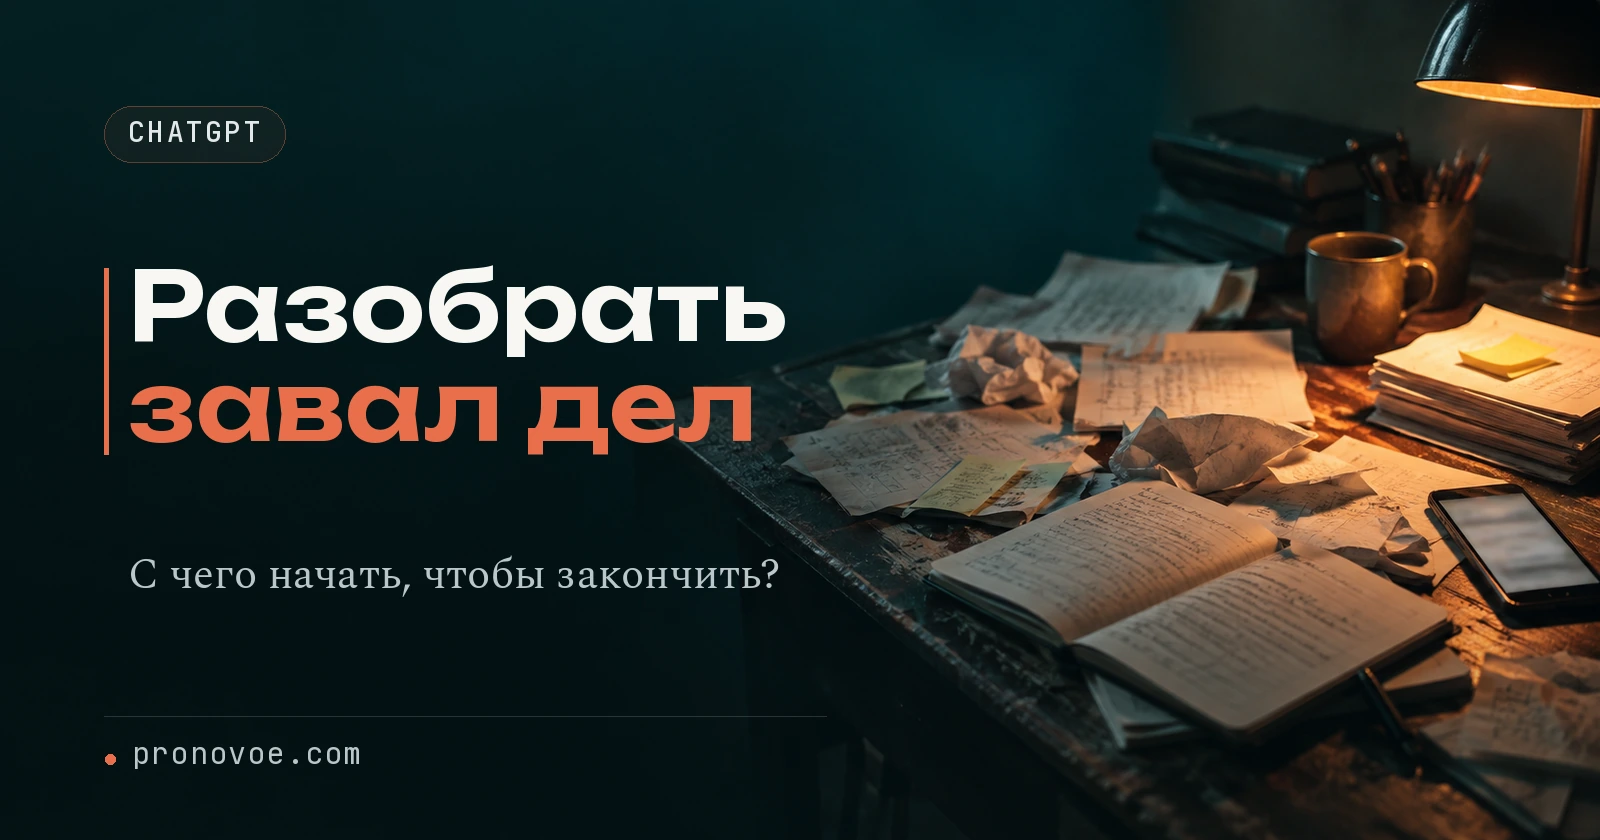
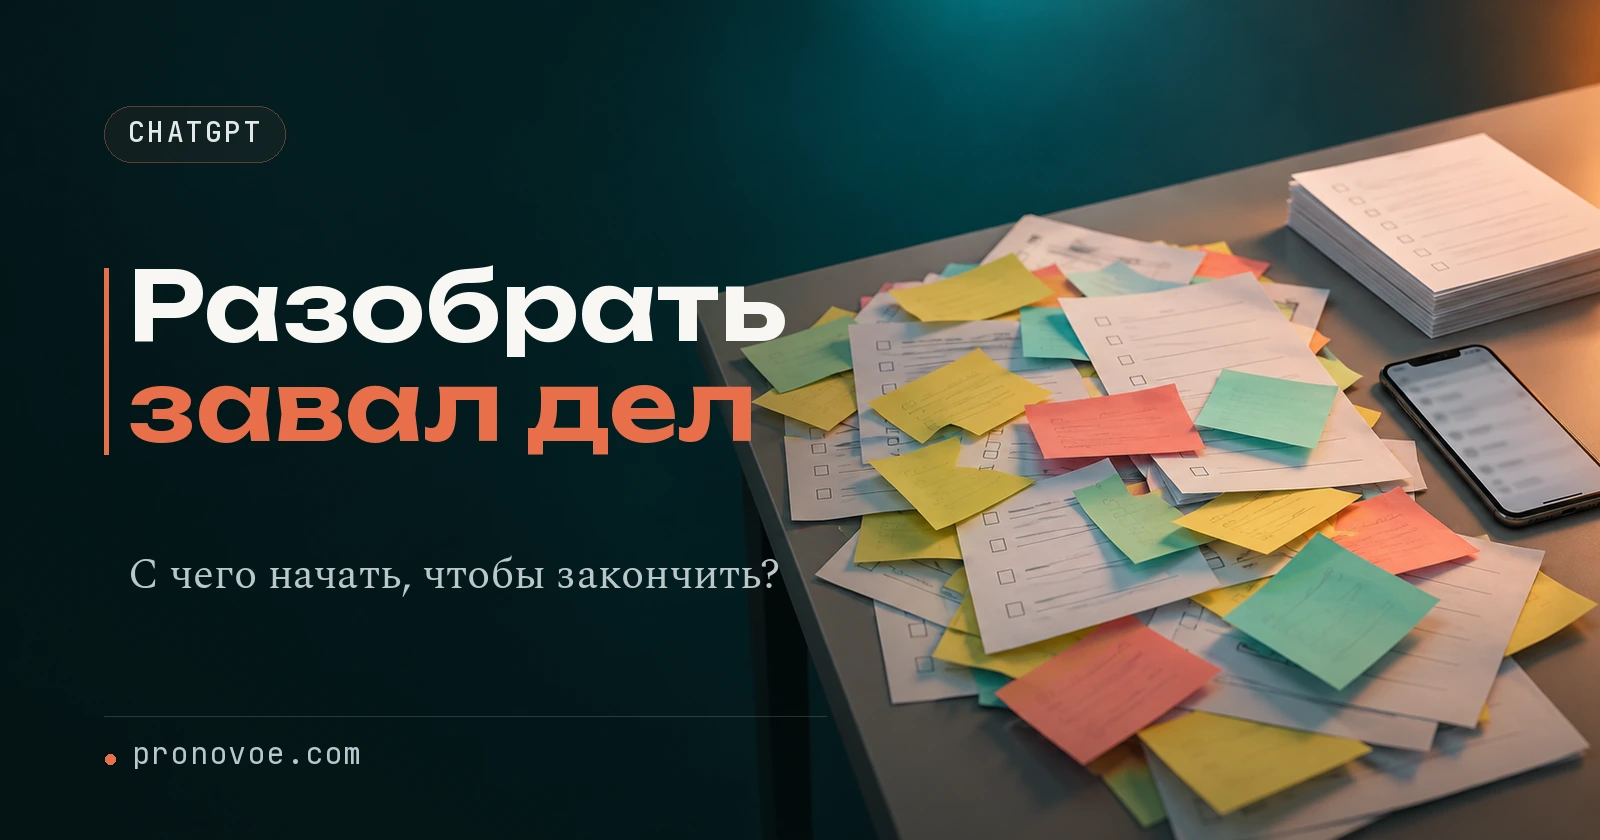
СВАЛКА: современная предметная обложка v3

diff --git a/claude-ai/razobrat-zaval-del-v-chatgpt/index.html b/claude-ai/razobrat-zaval-del-v-chatgpt/index.html
@@ -13,7 +13,7 @@
 <meta property="og:image:height" content="840">
 <meta name="twitter:card" content="summary_large_image">
 <meta name="twitter:image" content="https://pronovoe.com/claude-ai/razobrat-zaval-del-v-chatgpt/assets/oblozhka.webp">
-<meta property="og:image:alt" content="Разрозненные списки дел, смятые листки, блокнот и телефон на столе с тёплой подсветкой">
+<meta property="og:image:alt" content="На современном матовом столе гора разноцветных стикеров и распечаток со списками дел, рядом смартфон и ровная стопка бумаг">
 <!-- critical:fonts:start -->
 <!-- palette:start -->
 <style id="guide-palette">
@@ -694,7 +694,7 @@ html { scroll-padding-bottom: calc(var(--cookie-height, 0px) + 16px) }
 <a href="#glavnoe">Шаг 5. Спроси, за какое дело взяться первым</a>
 <a href="#pomoshch">Что написать, если непонятно, как продолжить?</a>
 <a href="#istochniki">Где прочитать о возможностях этих нейросетей</a>
-<a href="#dalshe">Что ещё можно поручить нейросети</a></nav><main><article><header id="nachalo"><p class="eyebrow">Инструкция · ChatGPT.</p><figure class="cover cover-v2"><img src="assets/oblozhka.webp" width="1600" height="840" alt="На тёмном столе разрозненные списки дел и смятые листки, рядом блокнот, телефон и ровная стопка бумаг" loading="eager" decoding="async" fetchpriority="high"><figcaption>Расскажем обо всех делах в чате и разберёмся, за что взяться первым</figcaption></figure><h1 class="article-title-v2">Разобрать завал дел в ChatGPT: 4 запроса в одном чате</h1><div class="seo-intro"><p class="lead">Дел столько, что начинаешь одно, потом хватаешься за другое: кажется, оно важнее. До конца ничего не доводишь, а отложишь - забудешь. За что браться первым?</p><p>Попробуем собрать мысли в чате. Отправим четыре запроса по очереди: высыпем всё из головы, составим план на день и разберёмся, что отдать нейросети. А потом спросим: какое дело взять первым, чтобы сдвинуть остальные?</p></div>
+<a href="#dalshe">Что ещё можно поручить нейросети</a></nav><main><article><header id="nachalo"><p class="eyebrow">Инструкция · ChatGPT.</p><figure class="cover cover-v2"><img src="assets/oblozhka.webp" width="1600" height="840" alt="На современном матовом столе гора разноцветных стикеров и распечаток со списками дел, рядом смартфон и ровная стопка бумаг" loading="eager" decoding="async" fetchpriority="high"><figcaption>Расскажем обо всех делах в чате и разберёмся, за что взяться первым</figcaption></figure><h1 class="article-title-v2">Разобрать завал дел в ChatGPT: 4 запроса в одном чате</h1><div class="seo-intro"><p class="lead">Дел столько, что начинаешь одно, потом хватаешься за другое: кажется, оно важнее. До конца ничего не доводишь, а отложишь - забудешь. За что браться первым?</p><p>Попробуем собрать мысли в чате. Отправим четыре запроса по очереди: высыпем всё из головы, составим план на день и разберёмся, что отдать нейросети. А потом спросим: какое дело взять первым, чтобы сдвинуть остальные?</p></div>
 <p>Подойдёт и чат Claude. Здесь показываю на ChatGPT.</p>
 <p>Всё ниже можно сделать <b>на <a href="https://help.openai.com/en/articles/9275245-chatgpt-free-tier-faq">ChatGPT Free</a> без подписки</b>. <a href="https://help.openai.com/en/articles/20001274-chatgpt-voice">Голосовой режим</a> там доступен с лимитами.</p><p class="meta">ОБНОВЛЕНО 12 ОКТЯБРЯ 2026.</p>
 </header><details class="mobile-toc"><summary>Содержание статьи</summary><nav aria-label="Содержание на телефоне"><a href="#kak-ustroeno">Почему все вопросы задаём в одном чате</a>
